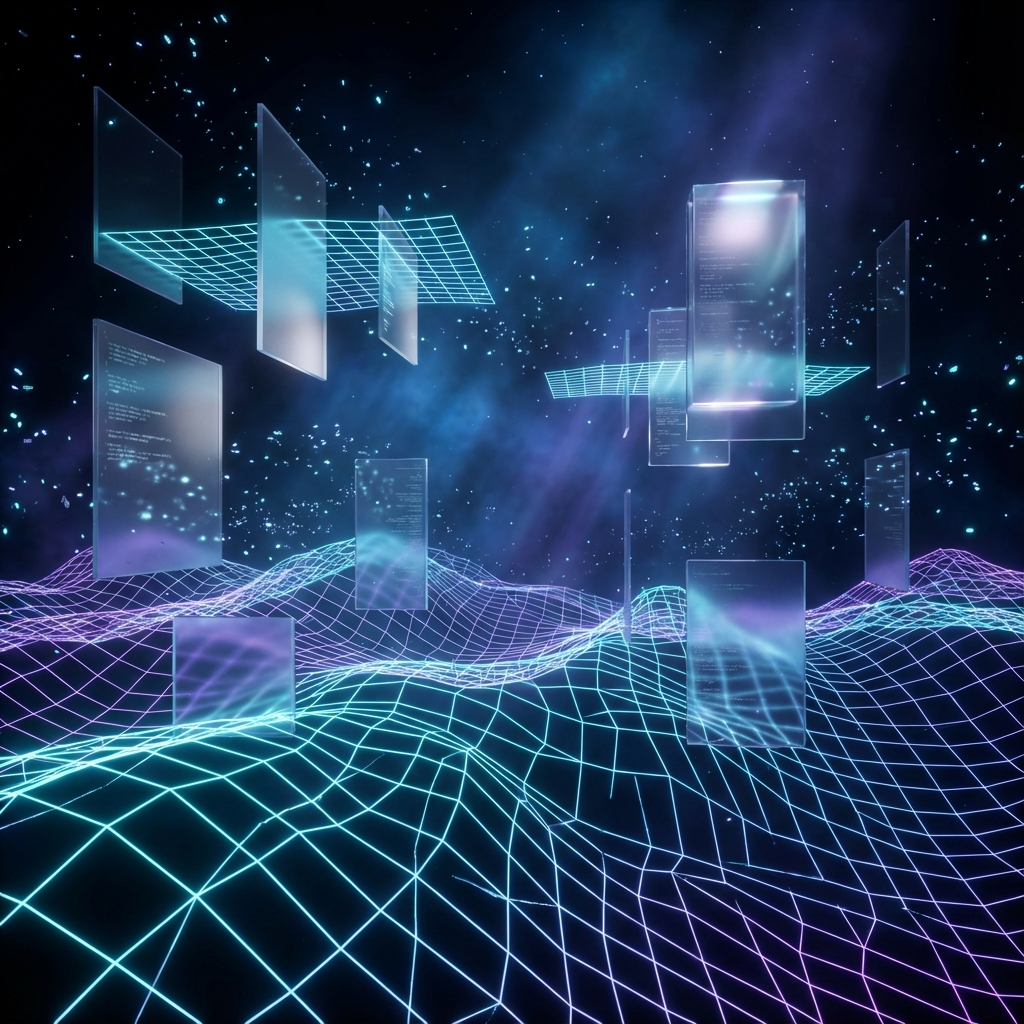
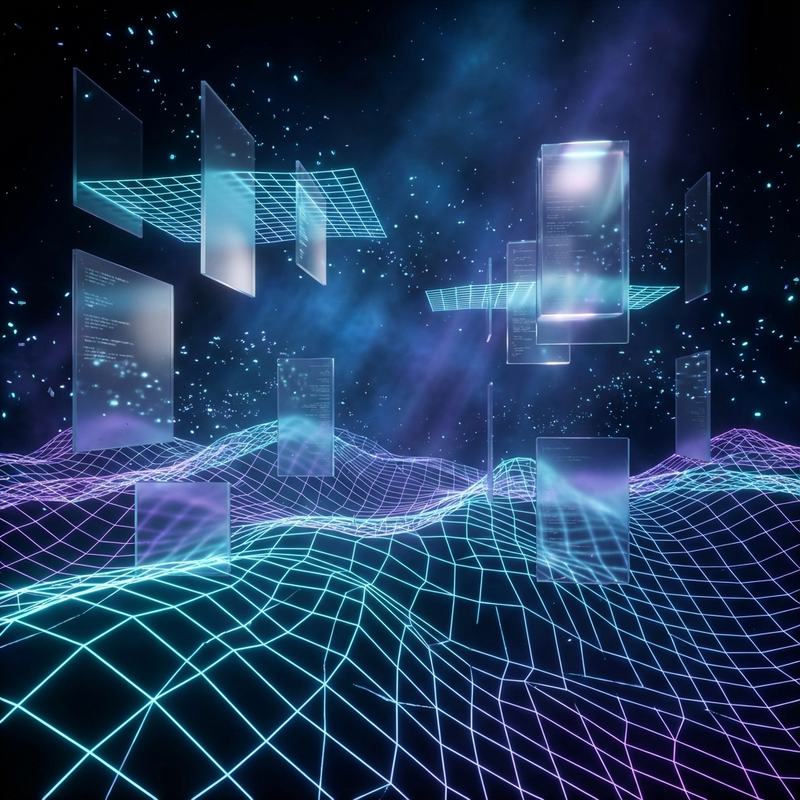
Optimized heavy images (CapCut, Gemini, etc) and added cache busting to HTML

diff --git a/index.html b/index.html
@@ -104,7 +104,7 @@
             <!-- Canva Special Offer -->
             <div class="card special-card">
                 <div class="card-icon">
-                    <img src="canva.png" alt="Canva Logo" class="product-img">
+                    <img src="canva.png?v=opt" alt="Canva Logo" class="product-img">
                 </div>
                 <h3>Canva PRO</h3>
                 <div class="card-content">
@@ -133,7 +133,7 @@
             <!-- Panel Canva PRO -->
             <div class="card special-card-alt">
                 <div class="card-icon">
-                    <img src="panel-canva.png" alt="Panel Canva Logo" class="product-img">
+                    <img src="panel-canva.png?v=opt" alt="Panel Canva Logo" class="product-img">
                 </div>
                 <h3>Panel Canva PRO</h3>
                 <div class="card-content">
@@ -173,7 +173,7 @@
             <!-- Perplexity -->
             <div class="card">
                 <div class="card-icon">
-                    <img src="perplexity.png" alt="Perplexity Logo" class="product-img">
+                    <img src="perplexity.png?v=opt" alt="Perplexity Logo" class="product-img">
                 </div>
                 <h3>Perplexity AI - GPT5</h3>
                 <p>Búsqueda inteligente y respuestas precisas.</p>
@@ -193,7 +193,7 @@
             <!-- Gemini -->
             <div class="card">
                 <div class="card-icon">
-                    <img src="gemini.png" alt="Gemini Logo" class="product-img">
+                    <img src="gemini.png?v=opt" alt="Gemini Logo" class="product-img">
                 </div>
                 <h3>Gemini Advanced</h3>
                 <p>12 meses con todos los beneficios.</p>
@@ -214,7 +214,7 @@
             <!-- Google One -->
             <div class="card">
                 <div class="card-icon">
-                    <img src="google-one.png" alt="Google One Logo" class="product-img">
+                    <img src="google-one.png?v=opt" alt="Google One Logo" class="product-img">
                 </div>
                 <h3>Google One</h3>
                 <p>Almacenamiento ampliado y beneficios premium.</p>
@@ -235,7 +235,7 @@
             <!-- CapCut -->
             <div class="card">
                 <div class="card-icon">
-                    <img src="capcut.png?v=new" alt="CapCut Logo" class="product-img">
+                    <img src="capcut.png?v=opt" alt="CapCut Logo" class="product-img">
                 </div>
                 <h3>CapCut Pro</h3>
                 <p>Edición de video profesional.</p>
